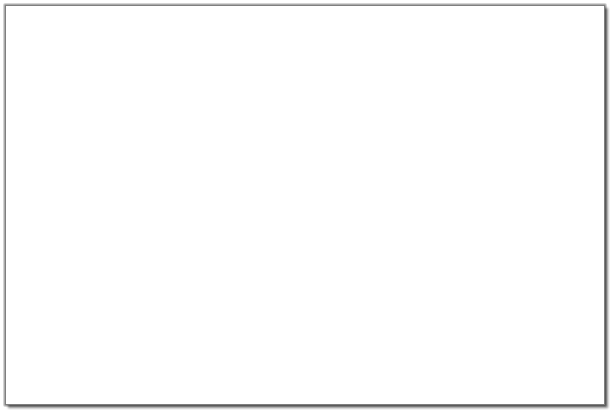
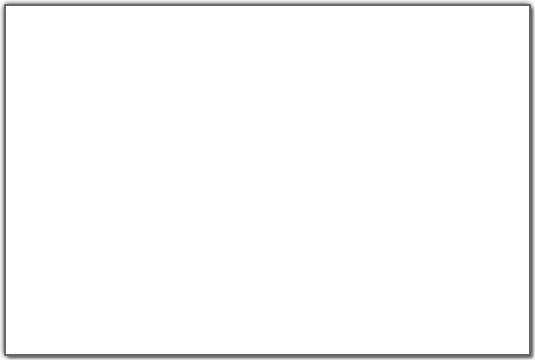
Resize photos, automate photo generation, update journal in chapter 28 (WIP)

Changed region(s): [[0.0, 0.0, 1.0, 1.0]]

diff --git a/scripts/shimgx.py b/scripts/shimgx.py
@@ -128,7 +128,7 @@ class CompositeTransformation(ImageTransformation):
             toppath = layer[2]
             with Image.open(resolve_path(toppath)) as topimg:
                 img.paste(topimg, (x, y), topimg.convert("RGBA"))
-                return img
+        return img
 
 def resize(targetwidth: int = -1, targetheight: int = -1):
     return ResizeTransformation(targetwidth, targetheight)
@@ -178,7 +178,7 @@ class ImageProcess:
             print(f"\tSaving image to <{outpath}>")
             img.save(outpath, **self.saveparams)
 
-JPEGS = (
+JPEGS = [
     # chapter 5
     ("reference/wheatfield ev/HanakoxHisao2_2.png", "event/wheatfield/wheatfield_smile.jpg", [RESIZE_1080P]),
     ("reference/wheatfield ev/wheatfield_awkward.png", "event/wheatfield/wheatfield_awkward.jpg", [RESIZE_1080P]),
@@ -239,7 +239,13 @@ JPEGS = (
     ("reference/plane ride cgs/Sisterhood_Hanako_x_Lilly_plane_03.png", "event/planeride/planeride_listen.jpg", [crop(0, 400, 3840, 2560), RESIZE_1080P]),
     ("reference/plane ride cgs/Sisterhood_Hanako_x_Lilly_plane_04.png", "event/planeride/planeride_frown.jpg", [crop(0, 400, 3840, 2560), RESIZE_1080P]),
     ("reference/plane ride cgs/Sisterhood_Hanako_x_Lilly_plane_05.png", "event/planeride/planeride_weaksmile.jpg", [crop(0, 400, 3840, 2560), RESIZE_1080P])
-)
+]
+
+PHOTOGRAPHS = [
+    # chapter 28
+    ("event/planeride/planeride_bliss.jpg", "gui/journal/p01.jpg", [crop(300, 0, 1920, 1080), resize(525, 350)]),
+    ("bgs/inverness_street.jpg", "gui/journal/p02.jpg", [CompositeTransformation([(700, 0, "~sprites/hanako/hanako_emb_smile.png"), (300, 0, "sprites/hisao/hisao_cross_smile_polo.png")]), crop(150, 0, 1770, 1080), resize(525, 350)])
+]
 
 def main(args):
     _update_paths(args)
@@ -247,14 +253,15 @@ def main(args):
     if "force" in args:
         force = args["force"]
     images_to_process: list[ImageProcess] = []
-    for entry in JPEGS:
+    for entry in JPEGS + PHOTOGRAPHS:
         transforms = []
         if len(entry) == 3:
             transforms = entry[2]
         inpath = resolve_path(entry[0])
         outpath = Path(sh_path, entry[1])
-        transforms.append(CHECK_1080P)
-        transforms.append(convert_rgb())
+        if entry in JPEGS:
+            transforms.append(CHECK_1080P)
+            transforms.append(convert_rgb())
         images_to_process.append(ImageProcess(inpath, outpath, transforms, quality=90))
     for process in images_to_process:
         process.transform(force)

diff --git a/scripts/journal.py b/scripts/journal.py
@@ -125,7 +125,7 @@ def parse_image(text: str) -> Image:
         if image is None or image[0] == "d":
             gap = 5
         else:
-            gap = 12
+            gap = 11
     return Image(image, text, xpos, ypos, yoff, xanchor, yanchor, gap, rotation)
 
 
@@ -196,7 +196,7 @@ def export_rpy_images(images: list[Image], xoff=0) -> str:
             rotatestr = f", {img.rotation}"
         imgtype = img.get_type()
         if imgtype == 'p':
-            imgstr += f"(Composite((610, 410), (0, 0), f\"{{sh_path}}/gui/journal/dropshadow.png\", (5, 5), f\"{{sh_path}}/gui/journal/{img.image}.png\"), {xoff+img.xpos}, {img.ypos}{anchorstr}{rotatestr})"
+            imgstr += f"(Composite((535, 360), (0, 0), f\"{{sh_path}}/gui/journal/dropshadow.png\", (5, 5), f\"{{sh_path}}/gui/journal/{img.image}.jpg\"), {xoff+img.xpos}, {img.ypos}{anchorstr}{rotatestr})"
         elif imgtype == 'd':
             imgstr += f"(Image(f\"{{sh_path}}/gui/journal/{img.image}.png\"), {xoff+img.xpos}, {img.ypos}{anchorstr}{rotatestr})"
         elif imgtype == 't':
